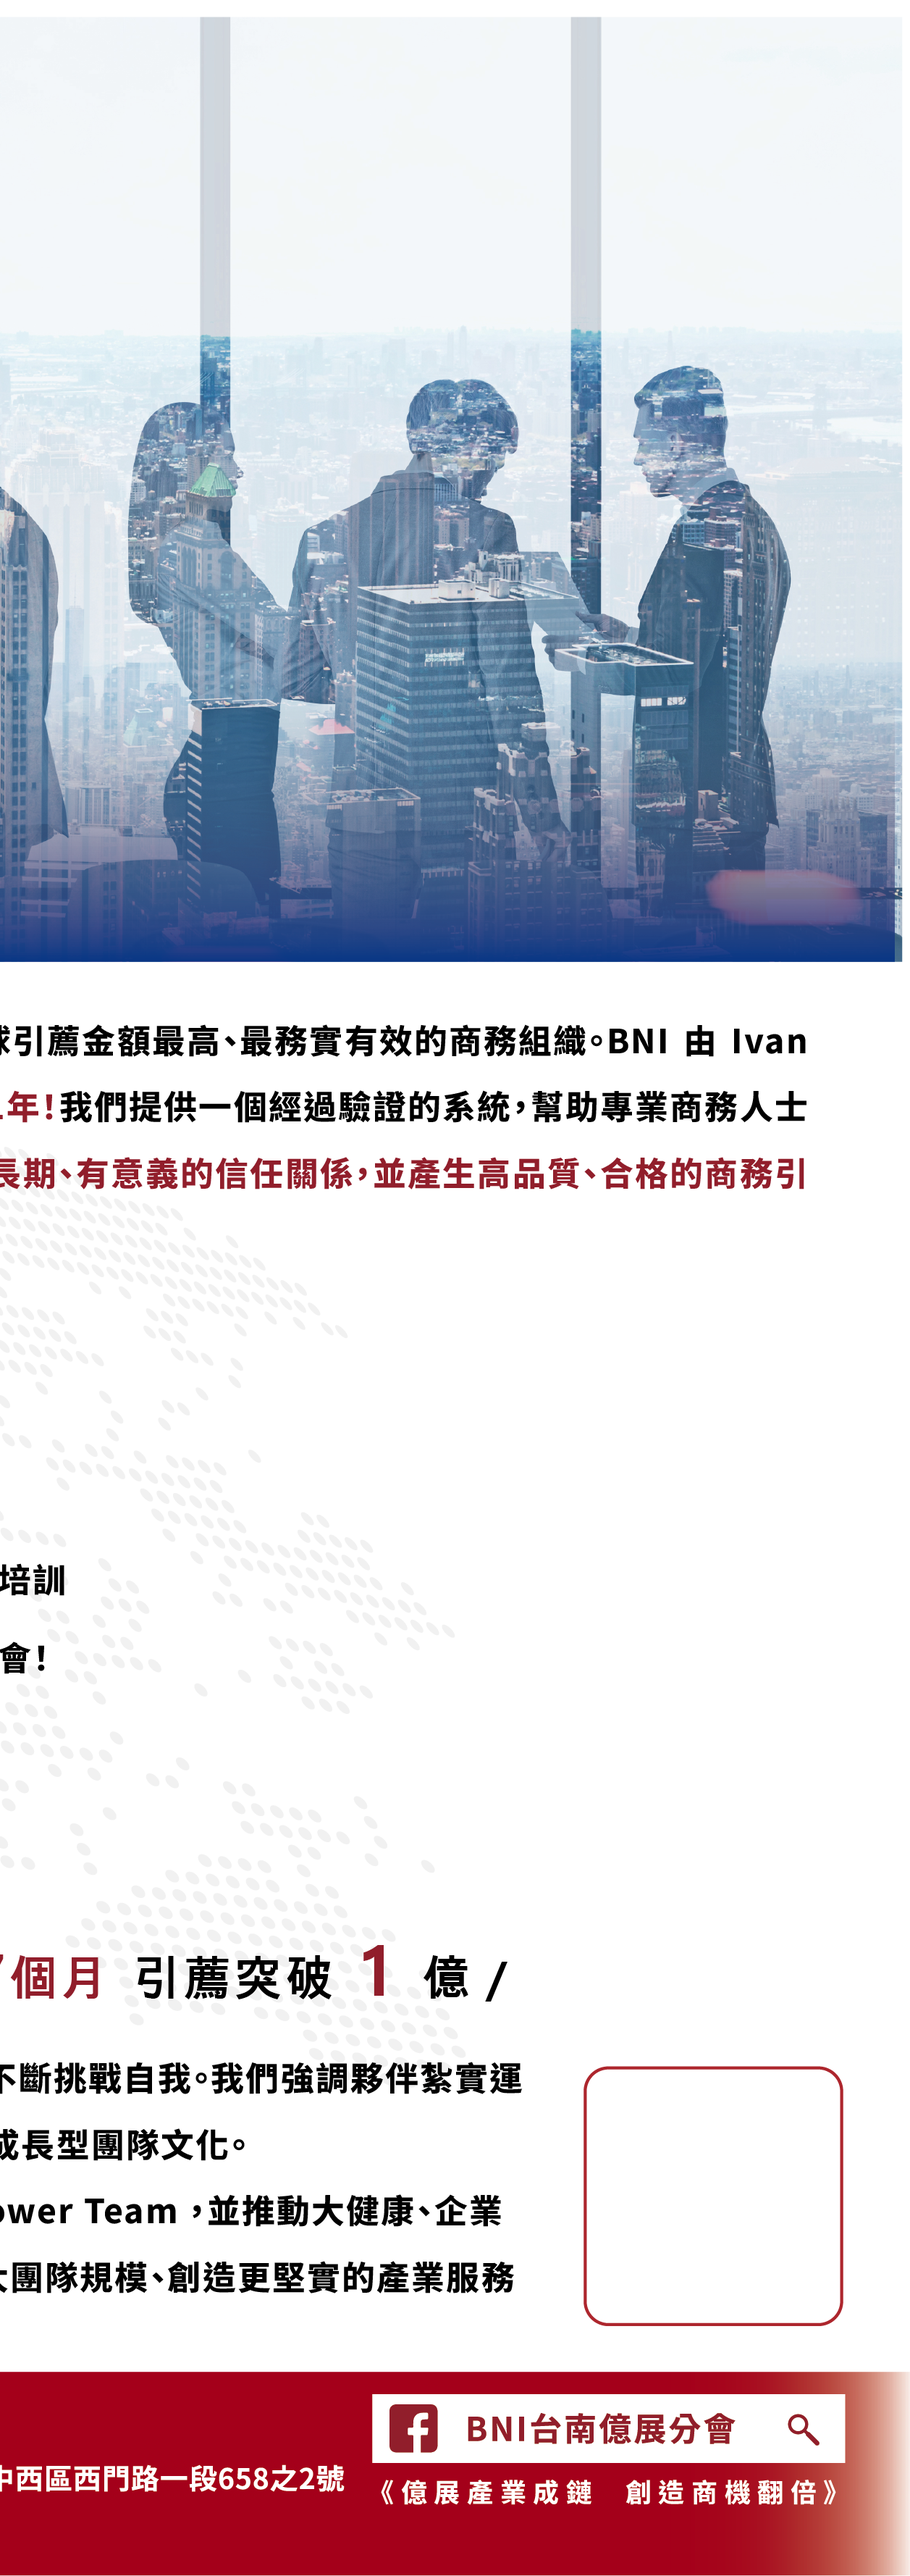
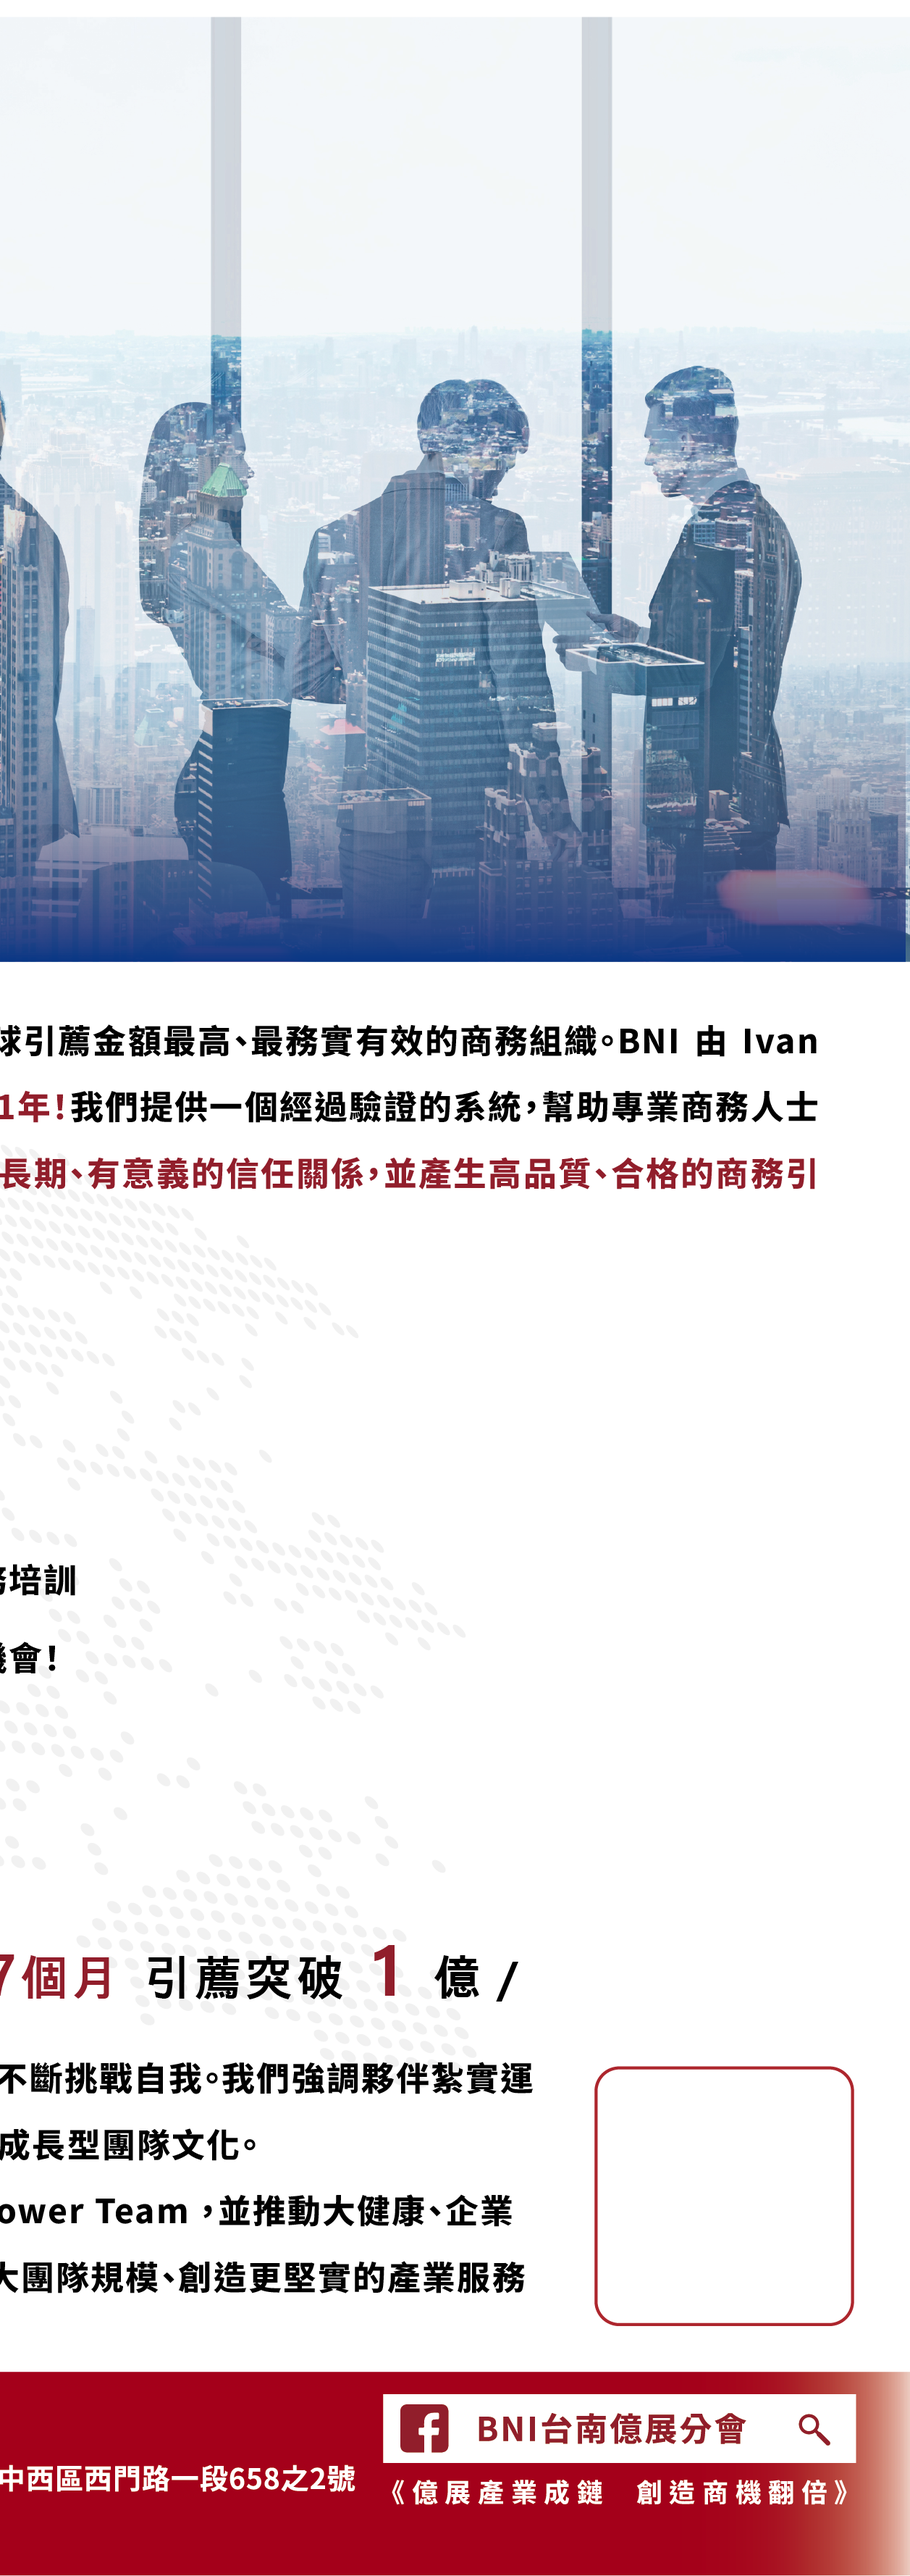
fix: P3/P4 改為非對稱裁切，保留中間銜接完整
- P3 只裁左邊 31px（右邊保留與 P4 銜接）
- P4 只裁右邊 31px（左邊保留與 P3 銜接）
- QR 位置對應新紅框（65.3%~93.8%）

diff --git a/src/dm.js b/src/dm.js
@@ -317,7 +317,7 @@ async function renderDM() {
         <img style="position:absolute;left:50%;top:0;width:25%;height:100%;object-fit:fill;display:block;" src="${_dmBgSrc(3)}" alt="" crossorigin="anonymous">
         <img style="position:absolute;left:75%;top:0;width:25%;height:100%;object-fit:fill;display:block;" src="${_dmBgSrc(4)}" alt="" crossorigin="anonymous">
         ${dividers}
-        <div id="dmQRPreview" style="position:absolute;left:829px;top:520px;width:44px;height:44px;display:flex;align-items:center;justify-content:center;z-index:8;">
+        <div id="dmQRPreview" style="position:absolute;left:832px;top:520px;width:44px;height:44px;display:flex;align-items:center;justify-content:center;z-index:8;">
           <div id="dmQRBox" style="width:44px;height:44px;"></div>
         </div>
         ${ov(0,0,true)}${ov(1,1,true)}
@@ -495,9 +495,9 @@ async function printDM() {
   // 新版 P4 底圖紅框位置：left=382mm, top=240mm, 寬 29mm × 高 27mm
   const qrDataUrl = await _generateQRDataURL(400);
   const qrSizeMm = 19;  // 19mm，留出明顯邊距讓紅框線可見
-  const qrBoxX = 382;
+  const qrBoxX = 384;  // 裁切後紅框左移到 65.3%
   const qrBoxY = 240;
-  const qrBoxW = 29;
+  const qrBoxW = 30;
   const qrBoxH = 27;
   const qrX = +(qrBoxX + (qrBoxW - qrSizeMm) / 2).toFixed(2);
   const qrY = +(qrBoxY + (qrBoxH - qrSizeMm) / 2).toFixed(2);

diff --git a/index.html b/index.html
@@ -76,7 +76,7 @@
 <script src="src/member.js?v=20260512e"></script>
 <script src="src/renewal.js?v=20260512w"></script>
 <script src="https://cdn.jsdelivr.net/npm/qr-code-styling@1.9.2/lib/qr-code-styling.js"></script>
-<script src="src/dm.js?v=20260512n"></script>
+<script src="src/dm.js?v=20260512o"></script>
 <script src="src/dm-bg.js?v=20260512b"></script>
 <script src="src/slogan.js?v=20260508a"></script>
 <script src="src/plate.js?v=20260508b"></script>
